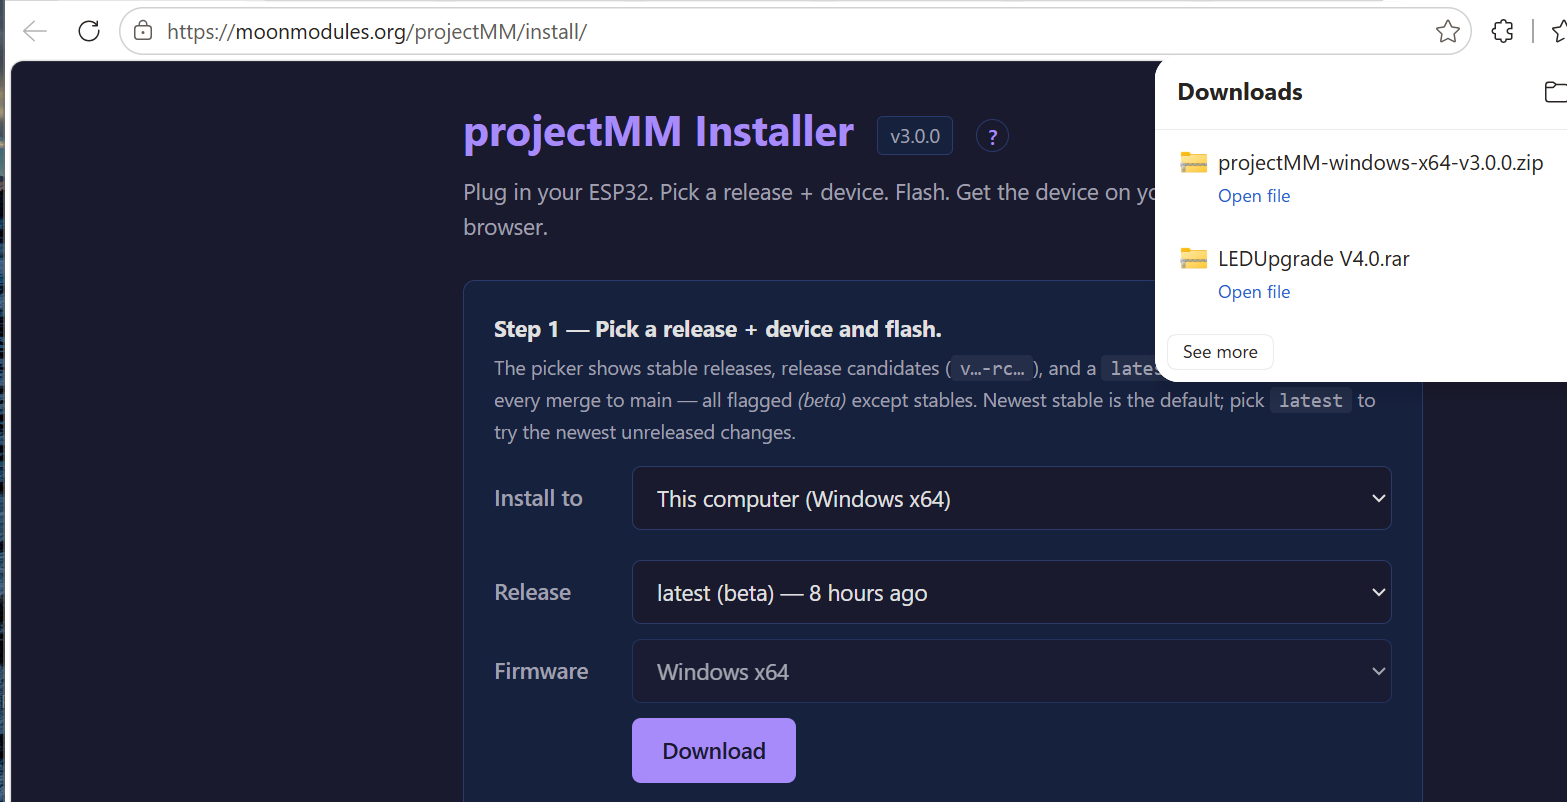
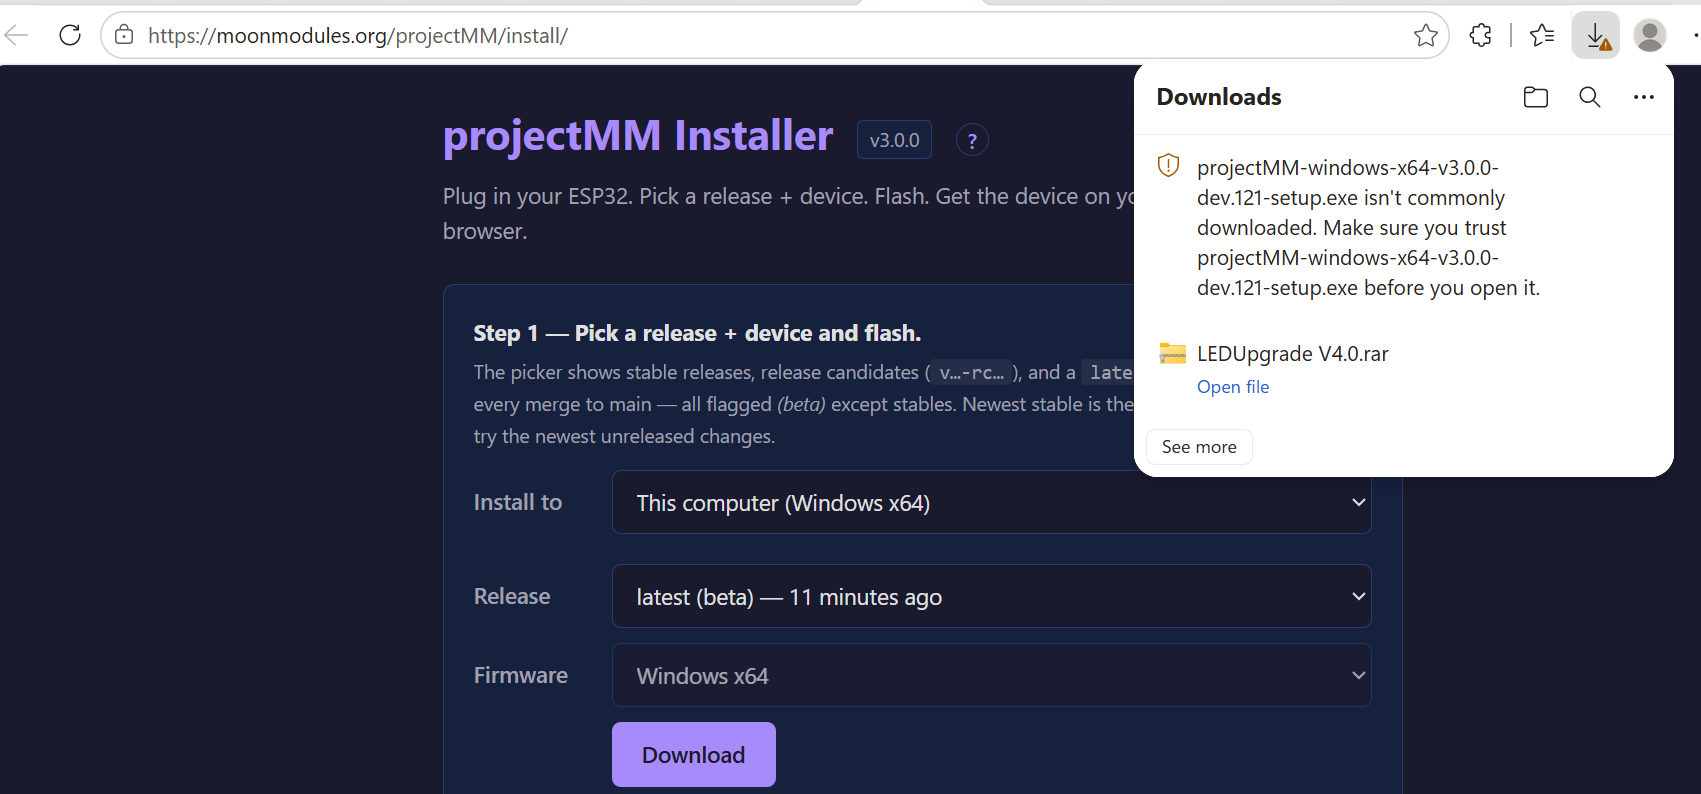
Rewrite the Windows install walkthrough around the installer
Five new screenshots taken from a real install replace the four that documented the older zip-and-bare-exe route. The page now follows setup.exe from the download to a running projectMM, including the SmartScreen prompt that stops people before they ever reach a file to run.

Docs/CI
- New step: the browser's SmartScreen download warning, and how to get past it. The choice hides behind the "..." AND a Delete dropdown, which reads as though the only options are Cancel or Delete, so it gets a screenshot and its own step. Why it recurs is written down too: reputation attaches to a FILE HASH or a signing certificate, never to a project or a filename, so an unsigned build starts from zero every time and no amount of downloading changes that.
- The blue "Windows protected your PC" screen is gone from the page. It belonged to the old route: keeping the file in the browser IS the trust decision, so Windows does not ask again when the setup runs. Confirmed on the bench, not assumed. It survives as one conditional troubleshooting row, for a path that reaches the file without the download prompt and so meets the same question later.
[…]

diff --git a/docs/tutorials/installing-to-desktop.md b/docs/tutorials/installing-to-desktop.md
@@ -6,41 +6,65 @@ This page covers **Windows**. For macOS and Linux, the [README](https://github.c
 
 > Looking to flash a device instead? That is [Install & first light](../gettingstarted.md). This page is about running projectMM *on the computer itself*.
 
+Five steps, one of which is Windows asking whether you trust an unsigned application. That is not a fault, and it is covered below.
+
 ---
 
-## 1. Download the installer
+## 1. Download it
 
 Open the [web installer](https://moonmodules.org/projectMM/install/) and set **Install to** to `This computer (Windows x64)`. The Release picker offers stable releases and `latest`, a build published on every merge to main; pick a stable one unless you want the newest unreleased changes.
 
-![The web installer with Windows x64 selected, and the download in the browser's Downloads panel](../assets/tutorials/windows-01-download.png)
+![The web installer with Windows x64 selected, and the downloaded setup.exe in the browser's Downloads panel carrying a SmartScreen warning](../assets/tutorials/windows-01-download.png)
 
-**Download** gives you `projectMM-windows-x64-vX.Y.Z-setup.exe`. There is nothing to sign up for and nothing else to install.
+**Download** gives you `projectMM-windows-x64-vX.Y.Z-setup.exe`.
 
-## 2. Run it
+Your browser will most likely flag it straight away: *"isn't commonly downloaded. Make sure you trust … before you open it."* That is step 2, and it is expected.
 
-The installer installs for your user, so there is no administrator prompt. It adds a **Start-menu entry with an icon** and a proper uninstaller, and starts projectMM when it finishes.
+## 2. Tell the browser to keep it
 
-Windows stops you the first time:
+Microsoft Defender SmartScreen judges a download by its **reputation**, built from how many people have downloaded that exact file from a publisher it recognises. projectMM is not code-signed, and every build produces a brand-new file, so its reputation is always zero. The warning is about the certificate, not about the contents.
 
-![Microsoft Defender SmartScreen warning that it prevented an unrecognized app from starting](../assets/tutorials/windows-03-smartscreen.png)
+In the Downloads panel, click the **`⋯`** next to the file, then open the **Delete** dropdown and choose **Keep anyway**:
 
-This is expected. SmartScreen warns about any application it has not seen signed by a paid, registered publisher, and projectMM is not code-signed. It is a statement about the certificate, not about the file.
+![The SmartScreen download dialog, with the Delete dropdown open showing Keep anyway](../assets/tutorials/windows-02-keep-anyway.png)
 
-Click **More info**, then **Run anyway**. You only have to do this once for a given copy.
+Chrome puts the same choice behind the download entry's **`⋯`**, then **Keep** and **Keep anyway**.
 
-## 3. That is it
+Worth knowing so it does not surprise you later: **this happens for every new build.** Reputation attaches to a file, not to a project, so a fresh `latest` build starts from nothing again. Only code signing changes that, and it is on the backlog.
+
+## 3. Run the setup
+
+Double-click the file you just kept, and the installer opens straight away. Keeping it in step 2 was the trust decision, so Windows does not ask a second time:
+
+![The projectMM setup dialog, showing the install location under AppData Local Programs](../assets/tutorials/windows-03-setup.png)
+
+There is nothing to decide here. It installs **for your user only**, into `%LOCALAPPDATA%\Programs\projectMM`, which is why it never asks for an administrator password. It needs about 1.3 MB. Click **Install**.
+
+If a copy of projectMM is already running, the installer stops it before replacing the files. That is deliberate: a running copy holds a lock on its own executable, and the install would otherwise fail part-way.
+
+## 4. Start it
+
+projectMM is now in the Start menu with its own icon. Type `projectMM` and open it:
+
+![The Windows Start menu showing projectMM with its icon, and an Uninstall projectMM entry](../assets/tutorials/windows-04-start-menu.png)
+
+The **Uninstall projectMM** entry beside it is the clean way to remove it later, and it leaves your settings in place (§6).
+
+## 5. That is it
 
 A console window opens showing what projectMM is doing, and your browser opens the interface at `http://localhost:8080/`.
 
-![projectMM running: the web interface with a live preview, alongside the console window showing the startup log](../assets/tutorials/windows-04-running.png)
+![projectMM running: the web interface with a live 3D preview and the Effects panel](../assets/tutorials/windows-05-running.png)
 
-The console window **is** the application. It shows the log, and closing it stops projectMM. The line that matters on a first run is `projectMM is running: http://localhost:8080/`; the address just below it (`HTTP server -> http://192.168.1.245:8080` in the screenshot) is the same interface reachable from your phone or another machine on your network.
+The console window **is** the application. It shows the log, and closing it stops projectMM. The line that matters on a first run is `projectMM is running: http://localhost:8080/`; the address printed just below it is the same interface, reachable from your phone or another machine on your network.
 
-Out of the box you get a 16x16 grid and a running effect, which is enough to confirm everything works. From here, [How projectMM works](how-projectmm-works.md) explains the Layouts, Effects and Drivers you see on the left.
+On a first install you get a default grid and a running effect, enough to confirm everything works. The screenshot above is not a first install: that machine already had projectMM configured with a Game of Life layer, and the setup left it exactly as it was. That is §6.
+
+From here, [How projectMM works](how-projectmm-works.md) explains the Layouts, Effects and Drivers down the left-hand side.
 
 Two options worth knowing: `--no-browser` stops it opening a browser (for a headless machine), and `--port <n>` serves somewhere other than 8080.
 
-## 4. Where your settings live
+## 6. Where your settings live
 
 Everything you change is saved automatically, in a folder that belongs to **your Windows user** rather than to the application:
 
@@ -48,23 +72,28 @@ Everything you change is saved automatically, in a folder that belongs to **your
 %LOCALAPPDATA%\projectMM
 ```
 
-This applies from the release that introduced it. On an older build, settings sat in a `build\.config` folder beside the executable instead, and the log said `write failed` for each save when that folder could not be created.
+Note that this is *not* where the program went. The program sits under `Programs\projectMM`; your settings live beside it in a separate folder, and that separation is what makes upgrades safe:
 
-The location is deliberate, and it has a consequence worth knowing: **your settings are not where the application is**. Move it, install a newer version over it, uninstall it, or delete the folder you extracted, and your configuration is still there. To start completely fresh, delete that folder.
+- **Installing a new version keeps your settings.** The installer replaces the program and never touches the settings folder.
+- **Uninstalling keeps them too.** Delete `%LOCALAPPDATA%\projectMM` by hand if you want a genuinely clean slate.
 
 Paste `%LOCALAPPDATA%\projectMM` into the Explorer address bar to open it.
 
-## 5. Or use the zip
+## 7. Updating
 
-Every release also ships `projectMM-windows-x64-vX.Y.Z.zip`, which is the right choice if you want to keep projectMM in a folder of your own, or run it from a USB stick. It holds the application and a README, and nothing else is needed. Download it from the [release page](https://github.com/MoonModules/projectMM/releases) rather than the web installer, which offers the installer for this platform.
+You do not have to watch the releases page. When a newer release exists, projectMM lights an **⬆ badge** in its top bar, next to the device name. You can see it in the screenshot in §5.
 
-**Extract it before running.** Opening the zip, Windows offers **Extract all** or **Run**:
+On a desktop the badge opens the **release page**, not the Firmware card. A device flashed over the network can install a new firmware in place; a desktop cannot replace its own running executable, so updating means downloading the new setup and running it. That is steps 1 to 4 of this page again, and it takes about a minute.
 
-![Windows offering Extract all or Run when opening the executable inside the zip](../assets/tutorials/windows-02-extract.png)
+The badge only appears when a release actually ships a build for your OS, and it tracks **stable releases**. If you are running a `latest` build, it will point you at the newest stable one rather than at newer `latest` builds.
 
-Choose **Extract all**. Running straight from a zip makes Windows unpack the application into a temporary folder that it may clear at any time, so you end up running a copy that quietly disappears later. Extract it somewhere you would keep a program, then run `projectMM.exe` from there — SmartScreen warns the same way, and the settings location is the same.
+**Nothing is lost.** Running the new setup replaces the program and leaves `%LOCALAPPDATA%\projectMM` untouched, so your layouts, effects and drivers come back exactly as you left them.
 
-Both forms are unsigned, so SmartScreen warns for either. Installing a new version over an old one keeps your settings, because the program and the settings live in different places; uninstalling removes the program and leaves your settings behind.
+## 8. Or run it without installing
+
+The [releases page](https://github.com/MoonModules/projectMM/releases) also carries `projectMM-windows-x64-vX.Y.Z.zip`: the same application with no installer, no Start-menu entry and no uninstaller. Choose it if you want projectMM in a folder of your own, or on a USB stick.
+
+Two things differ. **Extract it before running**, rather than opening the executable from inside the zip, because Windows unpacks a zip-launched program into a temporary folder it may clear at any time. And there is no Start-menu shortcut, so you launch it from wherever you put it. Settings still live in the same per-user folder, so both forms share one configuration.
 
 ---
 
@@ -72,11 +101,13 @@ Both forms are unsigned, so SmartScreen warns for either. Installing a new versi
 
 | Symptom | Look at |
 |---|---|
-| SmartScreen has no **Run anyway** | Click **More info** first; the button is hidden until you do. |
-| It opened and closed immediately | Run it from a terminal (`cd` to the folder, then `.\projectMM.exe`) so the error stays on screen instead of vanishing with the window. |
+| The download is flagged and will not open | §2. The choice hides behind the **`⋯`** and the **Delete** dropdown, which is easy to miss. |
+| A blue **"Windows protected your PC"** appears when you run it | Only happens if the file reached you without the step-2 prompt, so the trust question waits until you run it instead. Click **More info**, then **Run anyway**; the button is hidden until you click **More info**. |
+| It opened and closed immediately | Run it from a terminal so the error stays on screen instead of vanishing with the window. |
 | The browser shows nothing at `localhost:8080` | Check the console window is still open. Closing it stops projectMM. If another program already uses port 8080, start with `--port 8081`. |
 | Another machine cannot reach it | Use the `HTTP server ->` address from the log, not `localhost`. Windows Firewall prompts on first run; it needs to be allowed on your private network. |
 | Settings do not survive a restart | The log will say `cannot use ... persistence disabled` and name the directory it tried. That is the fault, not the saving itself. |
+| The installer fails saying a file is in use | A copy of projectMM is running that it could not stop. Close the console window and run the setup again. |
 
 ---
 

diff --git a/README.md b/README.md
@@ -99,7 +99,7 @@ The numbers above are observations. The **contracts** projectMM commits to, what
 **Desktop: download and run.** Grab the build for your OS from the [releases page](https://github.com/MoonModules/projectMM/releases). Step-by-step with screenshots for Windows: [Installing projectMM on a desktop](docs/tutorials/installing-to-desktop.md).
 
 - **macOS arm64:** `projectMM-macos-arm64-vX.Y.Z.dmg`: open it and drag projectMM to Applications, then launch it like any app. A Terminal window opens showing what it is doing, your browser opens the UI, and closing that window stops it. (`projectMM-macos-arm64-vX.Y.Z.tar.gz` is the same binary without the wrapper, for scripting.) x86-64 macOS is supported and tested, but only the arm64 build is packaged: build from source for an Intel Mac. The binary is ad-hoc signed rather than notarized, so Gatekeeper says it cannot verify the developer; right-click → Open and confirm, or clear the flag with `xattr -dr com.apple.quarantine ./projectMM`.
-- **Windows x64:** `projectMM-windows-x64-vX.Y.Z-setup.exe`: run it and projectMM installs for your user (no admin prompt) with a Start-menu entry and an uninstaller. `projectMM-windows-x64-vX.Y.Z.zip` is the same binary without the installer, to unzip and run from anywhere. SmartScreen may warn on first run because neither is signed (More info → Run anyway).
+- **Windows x64:** `projectMM-windows-x64-vX.Y.Z-setup.exe`: run it and projectMM installs for your user (no admin prompt) with a Start-menu entry and an uninstaller. `projectMM-windows-x64-vX.Y.Z.zip` is the same binary without the installer, to unzip and run from anywhere. Neither is code-signed, so SmartScreen asks you to confirm once: your browser flags the download ("isn't commonly downloaded"), and keeping it there is the trust decision. Walkthrough with screenshots: [Installing projectMM on a desktop](docs/tutorials/installing-to-desktop.md).
 - **Linux x64:** `projectMM-linux-x64-vX.Y.Z.tar.gz`, or `projectmm_X.Y.Z_amd64.deb` on Debian, Ubuntu and Raspberry Pi OS (`sudo apt install ./projectmm_X.Y.Z_amd64.deb` puts it on your PATH).
 
 Then open `http://localhost:8080/`. It opens by itself on start; pass `--no-browser` to suppress
